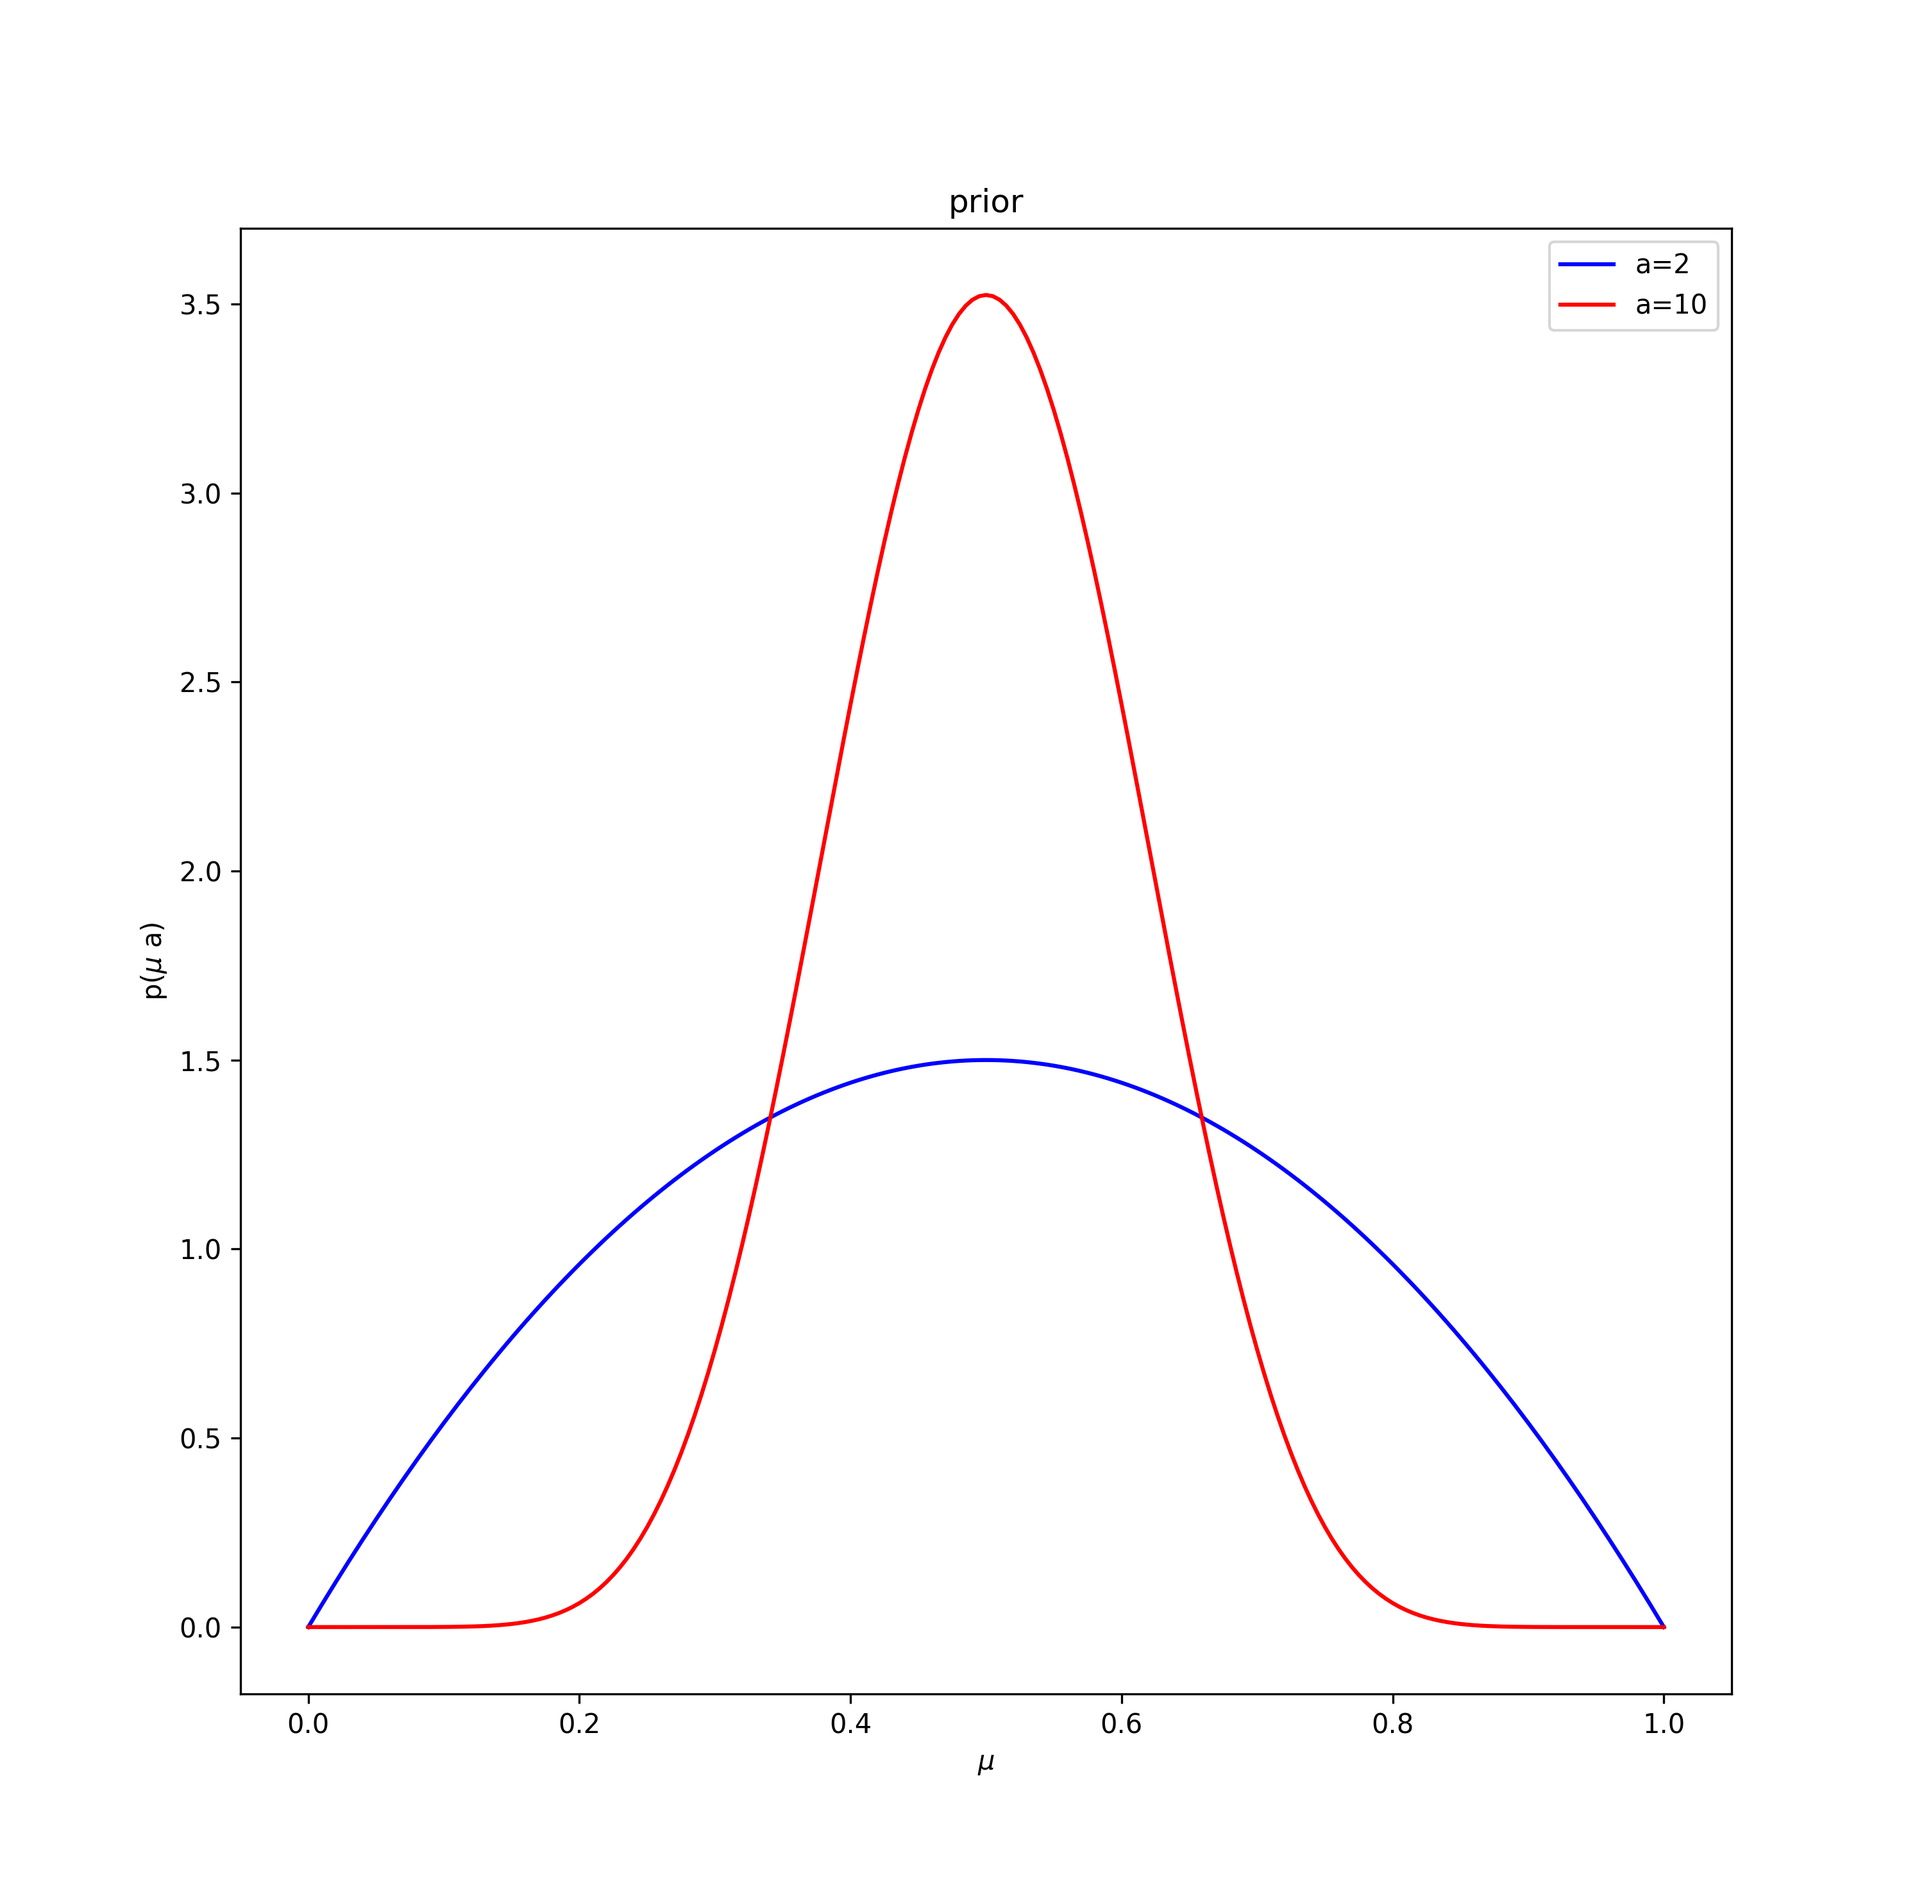
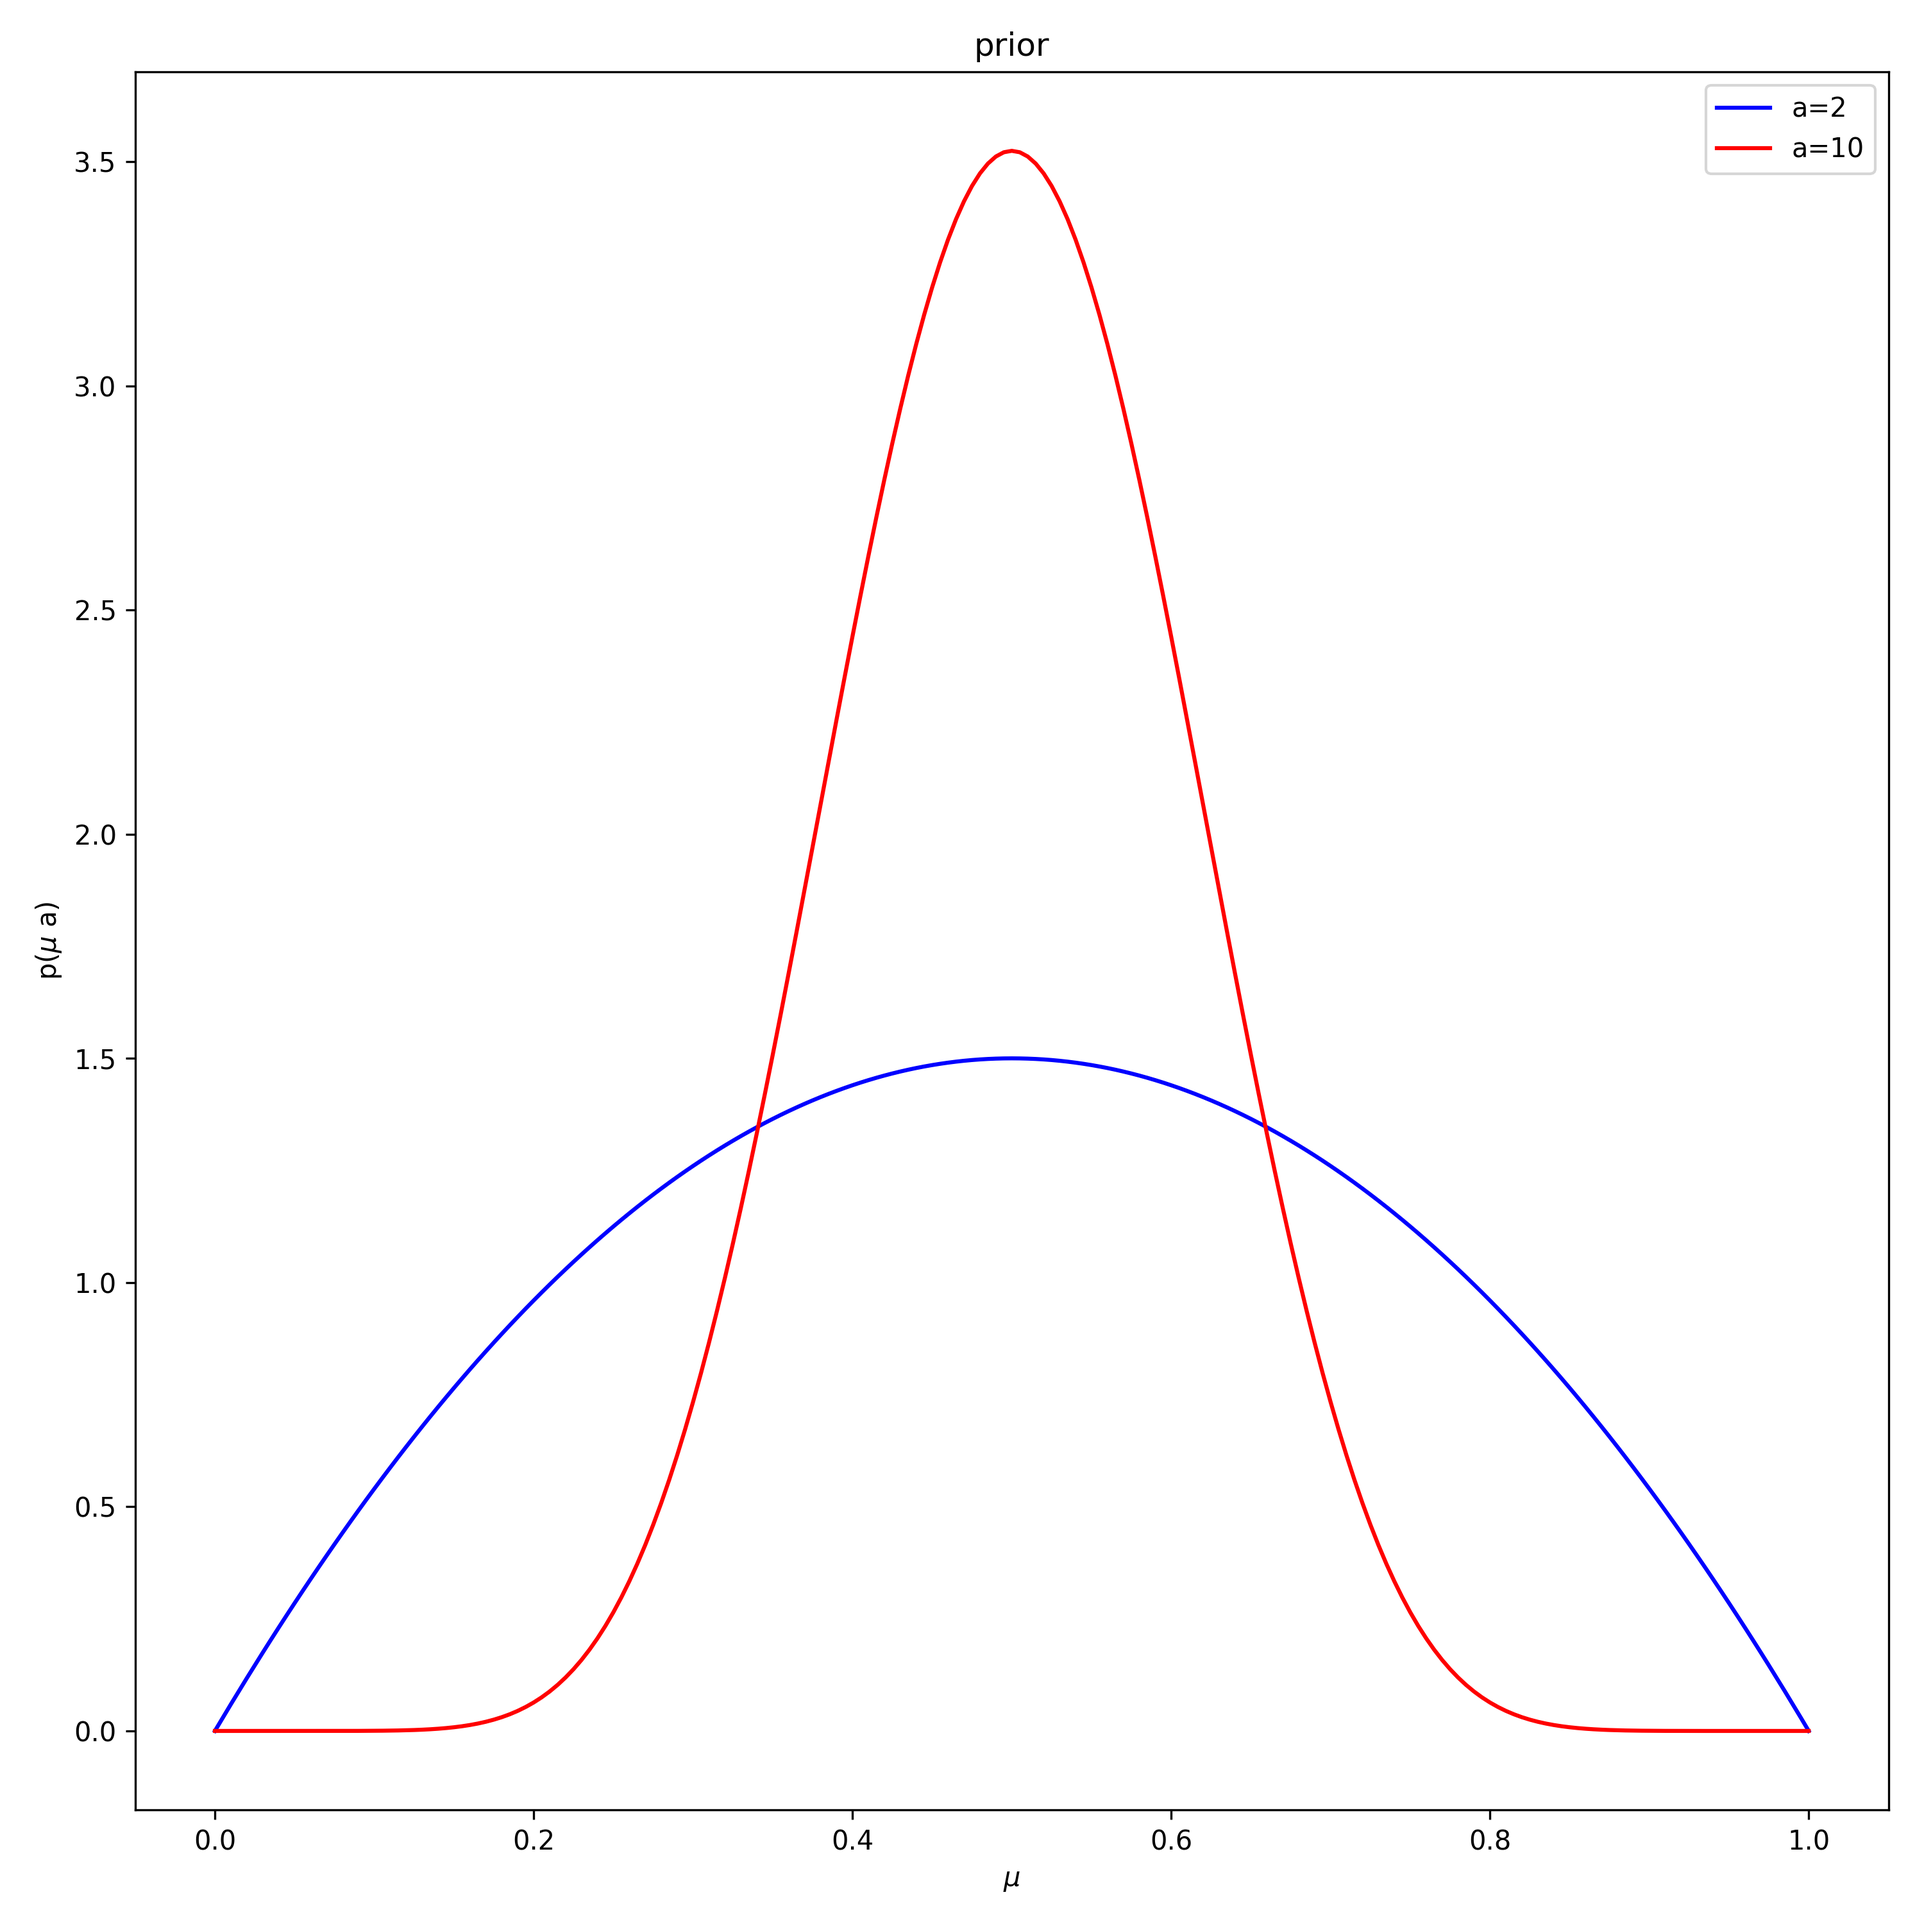
Implemented q3_prior.py

diff --git a/Homework 1/hw1_code/q3_prior.py b/Homework 1/hw1_code/q3_prior.py
@@ -13,4 +13,6 @@ def q3_prior(mu, a, Z):
 
     # insert your code here
 
+    prob = (1/Z)*(np.power(mu, a-1))*np.power((1-mu), a-1)
+
     return prob
